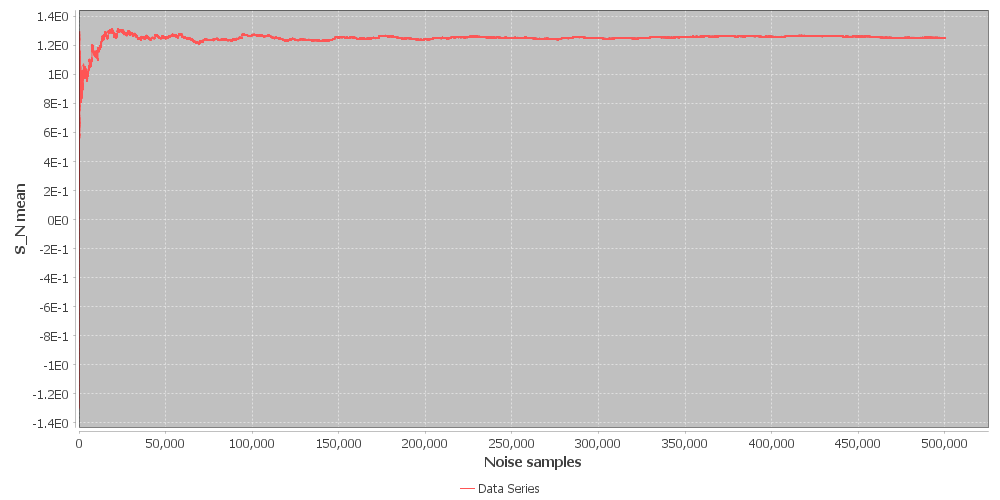
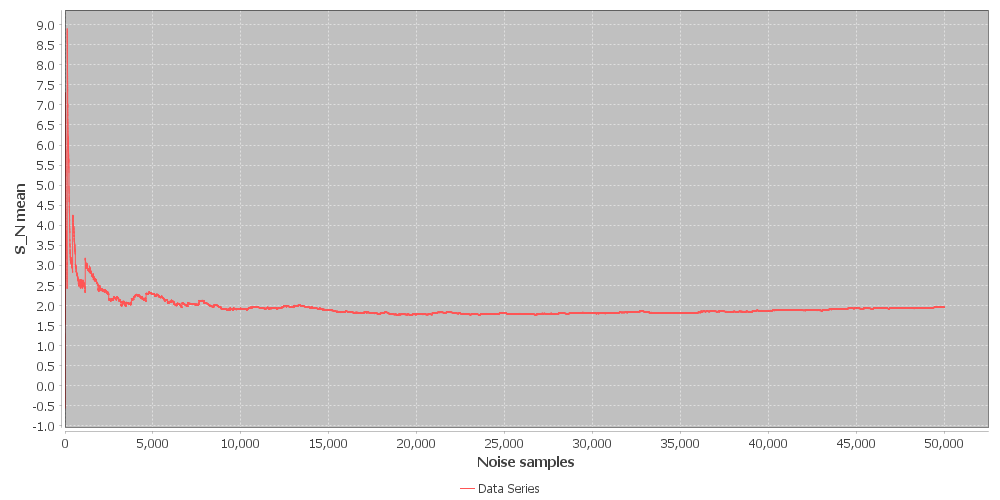
Lastest version: runtime issue, no stopping criterion

diff --git a/main.java b/main.java
@@ -1,59 +1,24 @@
-import java.awt.Color;
 import java.io.File;
-import java.math.BigDecimal;
-import java.math.RoundingMode;
-import java.text.DecimalFormat;
-import java.util.ArrayList;
-import java.util.List;
-
-import org.jfree.chart.ChartFactory;
-import org.jfree.chart.ChartUtils;
-import org.jfree.chart.JFreeChart;
-import org.jfree.chart.axis.NumberAxis;
-import org.jfree.chart.plot.PlotOrientation;
-import org.jfree.chart.plot.XYPlot;
-import org.jfree.data.Range;
-import org.jfree.data.xy.XYSeries;
-import org.jfree.data.xy.XYSeriesCollection;
 
 public class main {
    
-   public static void main(String[] args) throws Exception {
+   public static void main(String[] args) {
       File dir = new File("SATInstances");
       File[] files = dir.listFiles();
       if (files != null) {
          for (File file : files) {            
             if (file.isFile() && file.getName().endsWith(".cnf")) {
                System.out.println(file.getName());
-               XYSeries series = new XYSeries("Data Series");
-               int totalSample = 1000000;
-               BigDecimal sum = BigDecimal.ZERO;
-               BigDecimal mean = BigDecimal.ZERO;
-               List<BigDecimal> meanList = new ArrayList<>();
-               DecimalFormat df = new DecimalFormat("0.##########E0");
                //-- Execution --
-               System.out.println("1");
                long startTime1 = System.currentTimeMillis();
                NBLSolver solver = new NBLSolver(file);
                long startTime2 = System.currentTimeMillis();
-               for (int i = 1; i <= totalSample; i++) {
-                  sum = sum.add(solver.check());
-                  if (i % 50 == 0) {
-                     BigDecimal sample = new BigDecimal(i);
-                     mean = sum.divide(sample, RoundingMode.HALF_UP);
-                     meanList.add(mean);
-                  }
+               if (solver.check()) {
+                  System.out.println("satisfiable");
+               } else {
+                  System.out.println("unsatisfiable");
                }
                long endTime = System.currentTimeMillis();
-               //-- Scale up for drawing chart --
-               System.out.println("2");
-               int numDigits = mean.precision();
-               int numTrailingZeros = mean.scale();
-               int numLeadingDigits = numTrailingZeros - numDigits + 1;
-               for (BigDecimal mean_value : meanList) {
-                  BigDecimal value_new = mean_value.multiply(BigDecimal.TEN.pow(numLeadingDigits));
-                  series.add(meanList.indexOf(mean_value), value_new);                  
-               }
                //-- Elapsed time --
                long lTime = startTime2 - startTime1;
                long pTime = endTime - startTime2;
@@ -61,24 +26,6 @@ public class main {
                System.out.println("------------Loading: " + lTime + " ms");
                System.out.println("------------Processing: " + pTime + " ms");
                System.out.println("------------Total: " + tTime + " ms");
-               //-- Draw Chart --
-               XYSeriesCollection dataset = new XYSeriesCollection(series);
-               JFreeChart chart = ChartFactory.createXYLineChart(
-                  "",
-                  "Noise samples",
-                  "S_N mean",
-                  dataset,
-                  PlotOrientation.VERTICAL,
-                  true,
-                  true,
-                  false
-               );
-               chart.setBackgroundPaint(Color.white);
-               XYPlot plot = (XYPlot) chart.getPlot();
-               NumberAxis yAxis = (NumberAxis) plot.getRangeAxis();
-               yAxis.setNumberFormatOverride(df);
-               // yAxis.setRange(new Range(series.getMinY(), series.getMaxY()));
-               ChartUtils.saveChartAsPNG(new File("Chart/" + file.getName() + "_line-chart.png"), chart, 1000, 500);
             }
          }
       }

diff --git a/NBLSolver.java b/NBLSolver.java
@@ -3,6 +3,7 @@ import java.io.File;
 import java.io.FileReader;
 import java.io.IOException;
 import java.math.BigDecimal;
+import java.math.MathContext;
 import java.util.ArrayList;
 import java.util.HashMap;
 import java.util.List;
@@ -14,9 +15,11 @@ public class NBLSolver {
    private List<Clause> instanceSAT;
    private HashMap<Integer, List<Double>> noisesByClause;
    private Random random;
+   private String fileName;
 
    public NBLSolver(File file) {
       try (BufferedReader br = new BufferedReader(new FileReader(file))) {
+         fileName = file.getName();
          String line;
          int clause_index = 1;
          while ((line = br.readLine()) != null) {
@@ -53,7 +56,7 @@ public class NBLSolver {
    //-- NOISE SOURCE --
 
    private double noiseSource() {
-      return (random.nextDouble() * 2 - 1);
+      return (random.nextDouble() * 1 - 0.5);
    }
 
    //-- TAU --
@@ -101,33 +104,69 @@ public class NBLSolver {
 
    private BigDecimal cube(int clause, int literal) {
       List<Double> tempList = noisesByClause.get(clause);
-      double result = 1.0;
+      BigDecimal result = BigDecimal.ONE;
       // Noise sources of each clause are listed by the order:
       // [x1, -x1, x2, -x2, ...]
       for (int i = 0; i < numVariables; i++) {
          if (literal < 0 && i + 1 == Math.abs(literal)) {
             double noise = tempList.get(i * 2 + 1);
-            result *= noise;
+            result = result.multiply(BigDecimal.valueOf(noise));
             continue;
          } else if (literal > 0 && i + 1 == literal) {
             double noise = tempList.get(i * 2);
-            result *= noise;
+            result = result.multiply(BigDecimal.valueOf(noise));
             continue;
          }
          double positive = tempList.get(i * 2);
          double negative = tempList.get(i * 2 + 1);
          double sum = positive + negative;
-         result *= sum;
+         result = result.multiply(BigDecimal.valueOf(sum));
       }
-      return BigDecimal.valueOf(result);
+      return result;
    }
 
    //-- CHECKER --
 
-   public BigDecimal check() {
-      random = new Random();
-      BigDecimal tau = constructHyperspace();
-      BigDecimal sigma = constructInstanceNBL();
-      return tau.multiply(sigma);
+   public boolean check() {
+      boolean satifiability = true;
+      BigDecimal S_N = BigDecimal.ZERO;
+      List<BigDecimal> meanList = new ArrayList<>();
+
+      int totalSample = 1000000;
+      int step = 10;
+
+      for (int i = 1; i <= totalSample; i++) {
+         random = new Random();
+         BigDecimal tau = constructHyperspace();
+         BigDecimal sigma = constructInstanceNBL();
+         S_N = S_N.add(tau.multiply(sigma));
+         if (i % step == 0) {
+            BigDecimal sample = new BigDecimal(i);
+            BigDecimal mean = S_N.divide(sample, MathContext.DECIMAL128);
+            meanList.add(mean);
+         }
+      }
+
+      // int numMean = meanList.size();
+
+      // BigDecimal sum = BigDecimal.ZERO;
+      // for (int i = 0; i < numMean; i++) {
+      //    sum = sum.add(meanList.get(i));
+      // }
+      // BigDecimal total_mean = sum.divide(new BigDecimal(numMean), MathContext.DECIMAL128);
+
+      // Scale up all the mean value to draw the line chart
+      // int numDigits = total_mean.precision();
+      // int numTrailingZeros = total_mean.scale();
+      // int numLeadingDigits = numTrailingZeros - numDigits + 1;
+      // System.out.println(numLeadingDigits);
+      // for (int i = 0; i < numMean; i++) {
+      //    BigDecimal mean = meanList.get(i);
+      //    meanList.set(i, mean.multiply(BigDecimal.TEN.pow(numLeadingDigits)));
+      // }
+
+      new Chart(meanList, fileName);
+      return satifiability;
    }
+
 }

diff --git a/Chart.java b/Chart.java
@@ -1,0 +1,51 @@
+import java.awt.Color;
+import java.io.File;
+import java.io.IOException;
+import java.math.BigDecimal;
+import java.util.List;
+
+import org.jfree.chart.ChartFactory;
+import org.jfree.chart.ChartUtils;
+import org.jfree.chart.JFreeChart;
+import org.jfree.chart.plot.PlotOrientation;
+import org.jfree.data.xy.XYSeries;
+import org.jfree.data.xy.XYSeriesCollection;
+
+public class Chart {
+   private final List<BigDecimal> meanList;
+   private final String fileName;
+   private XYSeries series;
+   private XYSeriesCollection dataset;
+   private JFreeChart chart;
+
+   public Chart(List<BigDecimal> meanList, String fileName) {
+      this.meanList = meanList;
+      this.fileName = fileName;
+      series = new XYSeries("Data Series");
+      draw();
+   }
+   
+   private void draw() {
+      for (BigDecimal mean_value : meanList) {
+         series.add(meanList.indexOf(mean_value), mean_value);
+      }
+      dataset = new XYSeriesCollection(series);
+      chart = ChartFactory.createXYLineChart(
+         "",
+         "Noise samples",
+         "S_N mean",
+         dataset,
+         PlotOrientation.VERTICAL,
+         true,
+         true,
+         false
+      );
+      chart.setBackgroundPaint(Color.white);
+      try {
+         ChartUtils.saveChartAsPNG(new File("Chart/" + fileName + "_line-chart.png"), chart, 1000, 500);
+      } catch (IOException e) {
+         System.err.println("Failed to draw chart: " + fileName);
+         e.printStackTrace();
+      }
+   }
+}
